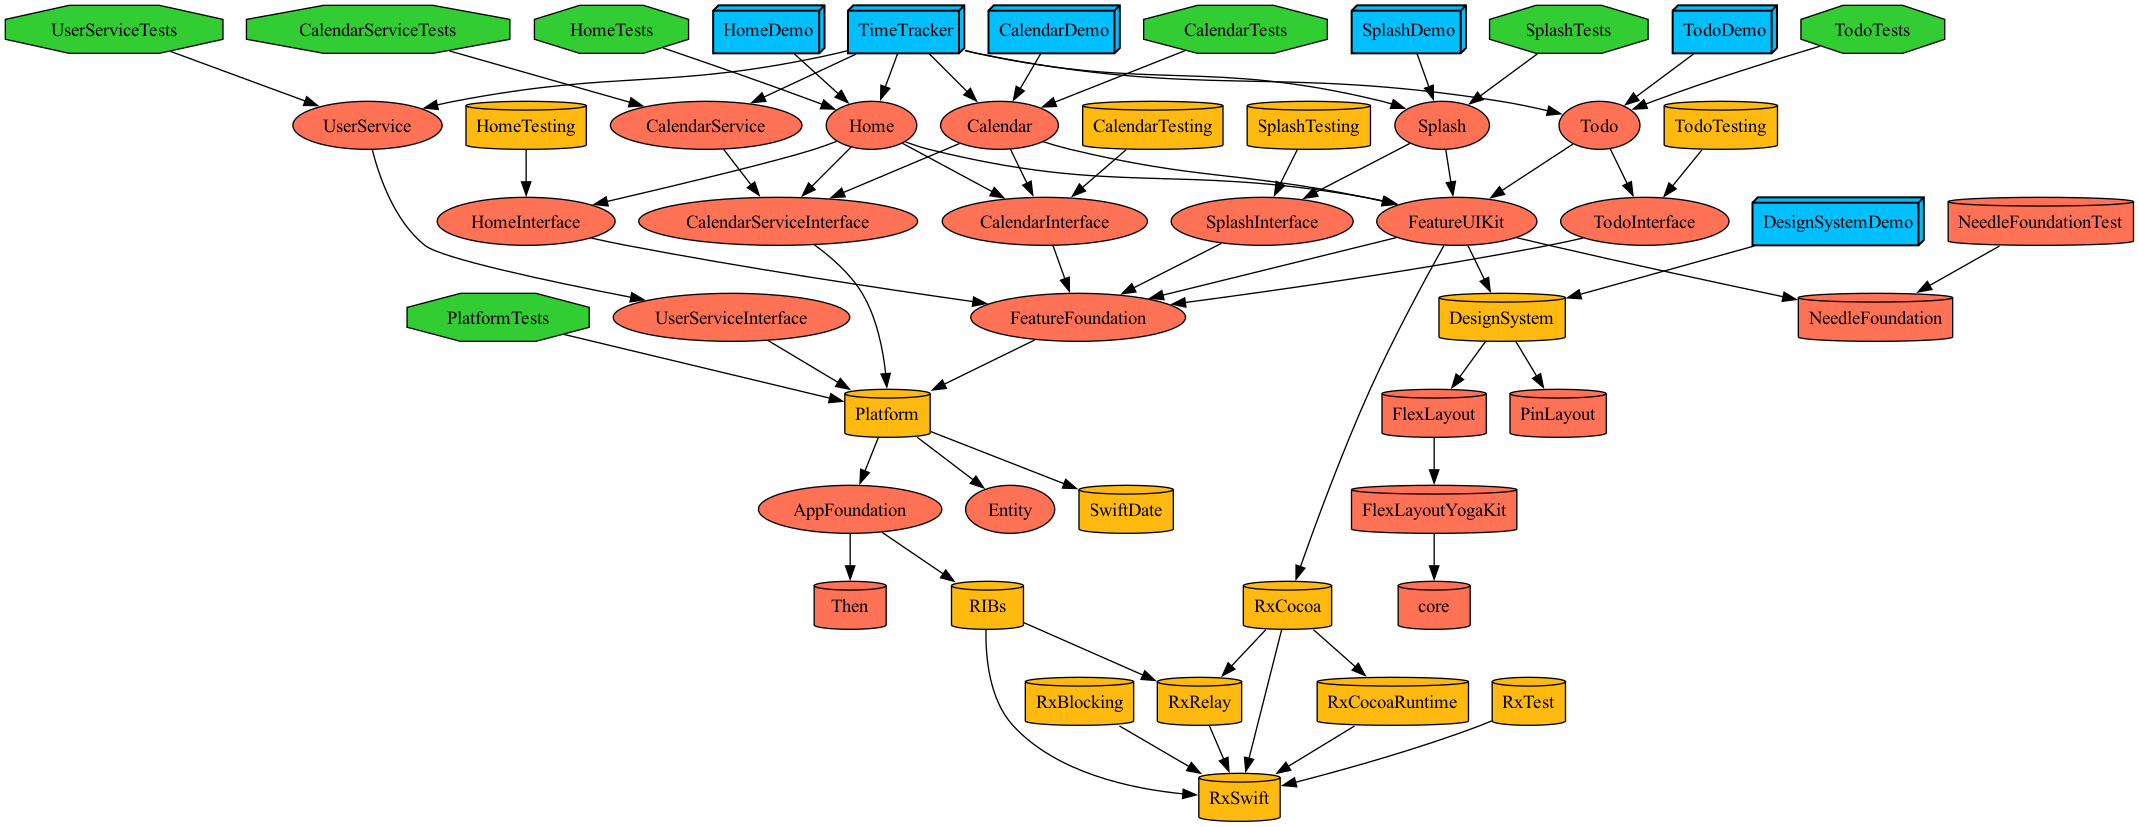
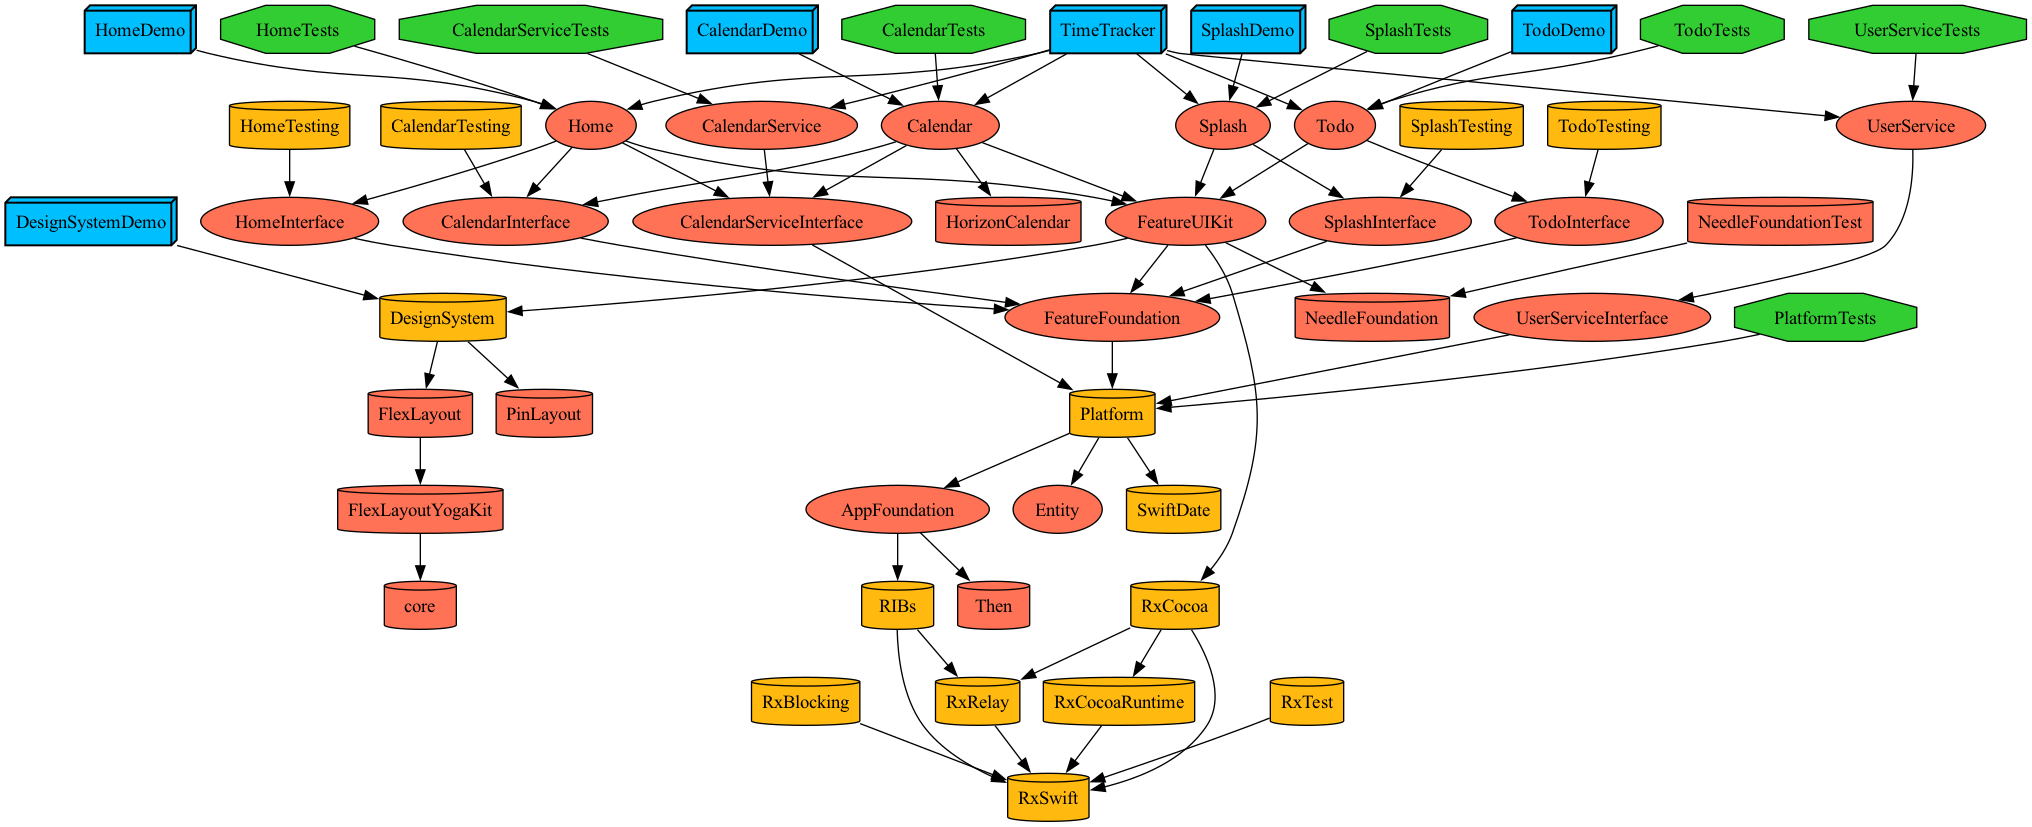
wip

diff --git a/Projects/Feature/Calendar/Sources/Components/CalendarContentView.swift b/Projects/Feature/Calendar/Sources/Components/CalendarContentView.swift
@@ -1,0 +1,115 @@
+//
+//  CalendarContentView.swift
+//  Calendar
+//
+//  Created by 홍성준 on 3/12/25.
+//  Copyright © 2025 com.hogumachu. All rights reserved.
+//
+
+import UIKit
+
+import DesignSystem
+
+import FlexLayout
+import HorizonCalendar
+import PinLayout
+import Then
+
+final class CalendarContentView: BaseView {
+  
+  private let containerView = UIView().with {
+    $0.backgroundColor = DesignSystem.BackgroundColor.groupedBase
+  }
+  private let headerView = CalendarMonthHeaderView()
+  private lazy var calendarView = CalendarView(initialContent: makeContent())
+  
+  override func setupLayout() {
+    addSubview(containerView)
+    super.setupLayout()
+    
+    rootView.flex
+      .define {
+        $0.addItem(headerView)
+          .height(70)
+        $0.addItem(calendarView)
+          .grow(1)
+      }
+  }
+  
+  func updateHeader(title: String) {
+    headerView.configure(title)
+  }
+  
+  override func layoutSubviews() {
+    super.layoutSubviews()
+    containerView.pin.all()
+    rootView.pin.top(pin.safeArea).horizontally().bottom()
+    rootView.flex.layout()
+  }
+  
+  private func makeContent() -> CalendarViewContent {
+    let calendar = Calendar.current
+    let startDate = calendar.date(from: DateComponents(year: 2025, month: 01, day: 01))!
+    let endDate = calendar.date(from: DateComponents(year: 2025, month: 12, day: 31))!
+    
+    return CalendarViewContent(
+      calendar: calendar,
+      visibleDateRange: startDate...endDate,
+      monthsLayout: .horizontal
+    )
+    .monthHeaderItemProvider { month in
+      CalendarMonthLabel.calendarItemModel(
+        invariantViewProperties: .init(
+          font: DesignSystem.Typography.subtitle1,
+          textColor: DesignSystem.TextColor.primary,
+          backgroundColor: DesignSystem.BackgroundColor.groupedBase
+        ),
+        content: .init(month: month)
+      )
+    }
+    .dayOfWeekItemProvider { month, weekdayIndex in
+      CalendarDayOfWeekLabel.calendarItemModel(
+        invariantViewProperties: .init(
+          font: DesignSystem.Typography.caption1,
+          backgroundColor: DesignSystem.BackgroundColor.groupedBase
+        ),
+        content: Self.makeDayOfWeekyContent(month, weekdayIndex)
+      )
+    }
+    .dayItemProvider { day in
+      CalendarDayLabel.calendarItemModel(
+        invariantViewProperties: .init(
+          font: DesignSystem.Typography.caption1,
+          textColor: DesignSystem.TextColor.primary,
+          borderColor: .clear
+        ),
+        content: .init(day: day)
+      )
+    }
+    .interMonthSpacing(0)
+    .verticalDayMargin(8)
+    .horizontalDayMargin(0)
+  }
+  
+  private static func makeDayOfWeekyContent(
+    _ month: MonthComponents?,
+    _ weekdayIndex: Int
+  ) -> CalendarDayOfWeekLabel.Content {
+    let text: String = {
+      switch weekdayIndex {
+      case 0: "일"
+      case 1: "월"
+      case 2: "화"
+      case 3: "수"
+      case 4: "목"
+      case 5: "금"
+      case 6: "토"
+      default: ""
+      }
+    }()
+    return .init(
+      text: text,
+      textColor: weekdayIndex == 0 ? DesignSystem.SubColor.red100 : DesignSystem.TextColor.primary
+    )
+  }
+}

diff --git a/Projects/Feature/Calendar/Sources/Components/CalendarDayLabel.swift b/Projects/Feature/Calendar/Sources/Components/CalendarDayLabel.swift
@@ -1,0 +1,48 @@
+//
+//  CalendarDayLabel.swift
+//  Calendar
+//
+//  Created by sungjun.hong on 3/13/25.
+//  Copyright © 2025 com.hogumachu. All rights reserved.
+//
+
+import UIKit
+
+import HorizonCalendar
+
+struct CalendarDayLabel: CalendarItemViewRepresentable {
+
+  /// Properties that are set once when we initialize the view.
+  struct InvariantViewProperties: Hashable {
+    let font: UIFont
+    let textColor: UIColor
+    let borderColor: UIColor
+  }
+
+  /// Properties that will vary depending on the particular date being displayed.
+  struct Content: Equatable {
+    let day: DayComponents
+  }
+
+  static func makeView(
+    withInvariantViewProperties invariantViewProperties: InvariantViewProperties
+  ) -> UILabel {
+    let label = UILabel()
+    
+    label.isUserInteractionEnabled = true
+    label.layer.borderWidth = 1
+    label.layer.borderColor = invariantViewProperties.borderColor.cgColor
+    label.font = invariantViewProperties.font
+    label.textColor = invariantViewProperties.textColor
+
+    label.textAlignment = .center
+    label.clipsToBounds = true
+    label.layer.cornerRadius = 12
+    
+    return label
+  }
+
+  static func setContent(_ content: Content, on view: UILabel) {
+    view.text = "\(content.day.day)"
+  }
+}

diff --git a/Projects/Feature/Calendar/Sources/Components/CalendarMonthLabel.swift b/Projects/Feature/Calendar/Sources/Components/CalendarMonthLabel.swift
@@ -1,0 +1,42 @@
+//
+//  CalendarMonthLabel.swift
+//  Calendar
+//
+//  Created by sungjun.hong on 3/13/25.
+//  Copyright © 2025 com.hogumachu. All rights reserved.
+//
+
+import UIKit
+
+import HorizonCalendar
+
+struct CalendarMonthLabel: CalendarItemViewRepresentable {
+
+  /// Properties that are set once when we initialize the view.
+  struct InvariantViewProperties: Hashable {
+    let font: UIFont
+    let textColor: UIColor
+    let backgroundColor: UIColor
+  }
+
+  /// Properties that will vary depending on the particular date being displayed.
+  struct Content: Equatable {
+    let month: MonthComponents
+  }
+
+  static func makeView(
+    withInvariantViewProperties invariantViewProperties: InvariantViewProperties
+  ) -> UILabel {
+    let label = UILabel()
+    label.font = invariantViewProperties.font
+    label.textColor = invariantViewProperties.textColor
+    label.backgroundColor = invariantViewProperties.backgroundColor
+    label.textAlignment = .left
+    label.clipsToBounds = true
+    return label
+  }
+
+  static func setContent(_ content: Content, on view: UILabel) {
+    view.text = content.month.description
+  }
+}

diff --git a/Projects/Feature/Calendar/Sources/Components/CalendarDayOfWeekLabel.swift b/Projects/Feature/Calendar/Sources/Components/CalendarDayOfWeekLabel.swift
@@ -1,0 +1,42 @@
+//
+//  CalendarDayOfWeekLabel.swift
+//  Calendar
+//
+//  Created by sungjun.hong on 3/13/25.
+//  Copyright © 2025 com.hogumachu. All rights reserved.
+//
+
+import UIKit
+
+import HorizonCalendar
+
+struct CalendarDayOfWeekLabel: CalendarItemViewRepresentable {
+
+  /// Properties that are set once when we initialize the view.
+  struct InvariantViewProperties: Hashable {
+    let font: UIFont
+    let backgroundColor: UIColor
+  }
+
+  /// Properties that will vary depending on the particular date being displayed.
+  struct Content: Equatable {
+    let text: String
+    let textColor: UIColor
+  }
+
+  static func makeView(
+    withInvariantViewProperties invariantViewProperties: InvariantViewProperties
+  ) -> UILabel {
+    let label = UILabel()
+    label.font = invariantViewProperties.font
+    label.backgroundColor = invariantViewProperties.backgroundColor
+    label.textAlignment = .center
+    label.clipsToBounds = true
+    return label
+  }
+
+  static func setContent(_ content: Content, on view: UILabel) {
+    view.text = content.text
+    view.textColor = content.textColor
+  }
+}

diff --git a/Package.swift b/Package.swift
@@ -26,6 +26,7 @@ let packageSetting = PackageSettings(
 let package = Package(
   name: "Package",
   dependencies: [
+    .package(url: "https://github.com/airbnb/HorizonCalendar", from: "2.0.0"),
     .package(url: "https://github.com/malcommac/SwiftDate", from: "7.0.0"),
     .package(url: "https://github.com/devxoul/Then", from: "3.0.0"),
     .package(url: "https://github.com/uber/needle", from: "0.25.1"),

diff --git a/Plugin/DependencyPlugin/ProjectDescriptionHelpers/Dependency+SPM.swift b/Plugin/DependencyPlugin/ProjectDescriptionHelpers/Dependency+SPM.swift
@@ -5,6 +5,7 @@ public extension TargetDependency {
 }
 
 public extension TargetDependency.SPM {
+  static let HorizonCalendar = TargetDependency.external(name: "HorizonCalendar")
   static let SwiftDate = TargetDependency.external(name: "SwiftDate")
   static let Then = TargetDependency.external(name: "Then")
   static let Needle = TargetDependency.external(name: "NeedleFoundation")

diff --git a/Projects/Feature/Calendar/Project.swift b/Projects/Feature/Calendar/Project.swift
@@ -15,6 +15,7 @@ let project = Project.module(
       .domain(target: .CalendarService, type: .interface),
       .feature(target: .Calendar, type: .interface),
       .feature(target: .FeatureUIKit),
+      .SPM.HorizonCalendar
     ]),
     .testing(module: .feature(.Calendar), dependencies: [
       .feature(target: .Calendar, type: .interface)

diff --git a/Projects/Feature/Calendar/Sources/CalendarViewController.swift b/Projects/Feature/Calendar/Sources/CalendarViewController.swift
@@ -33,7 +33,7 @@ final class CalendarViewController:
     didSet { bind() }
   }
   
-  private lazy var contentView = CalendarView()
+  private lazy var contentView = CalendarContentView()
   
   private let disposeBag = DisposeBag()
   
